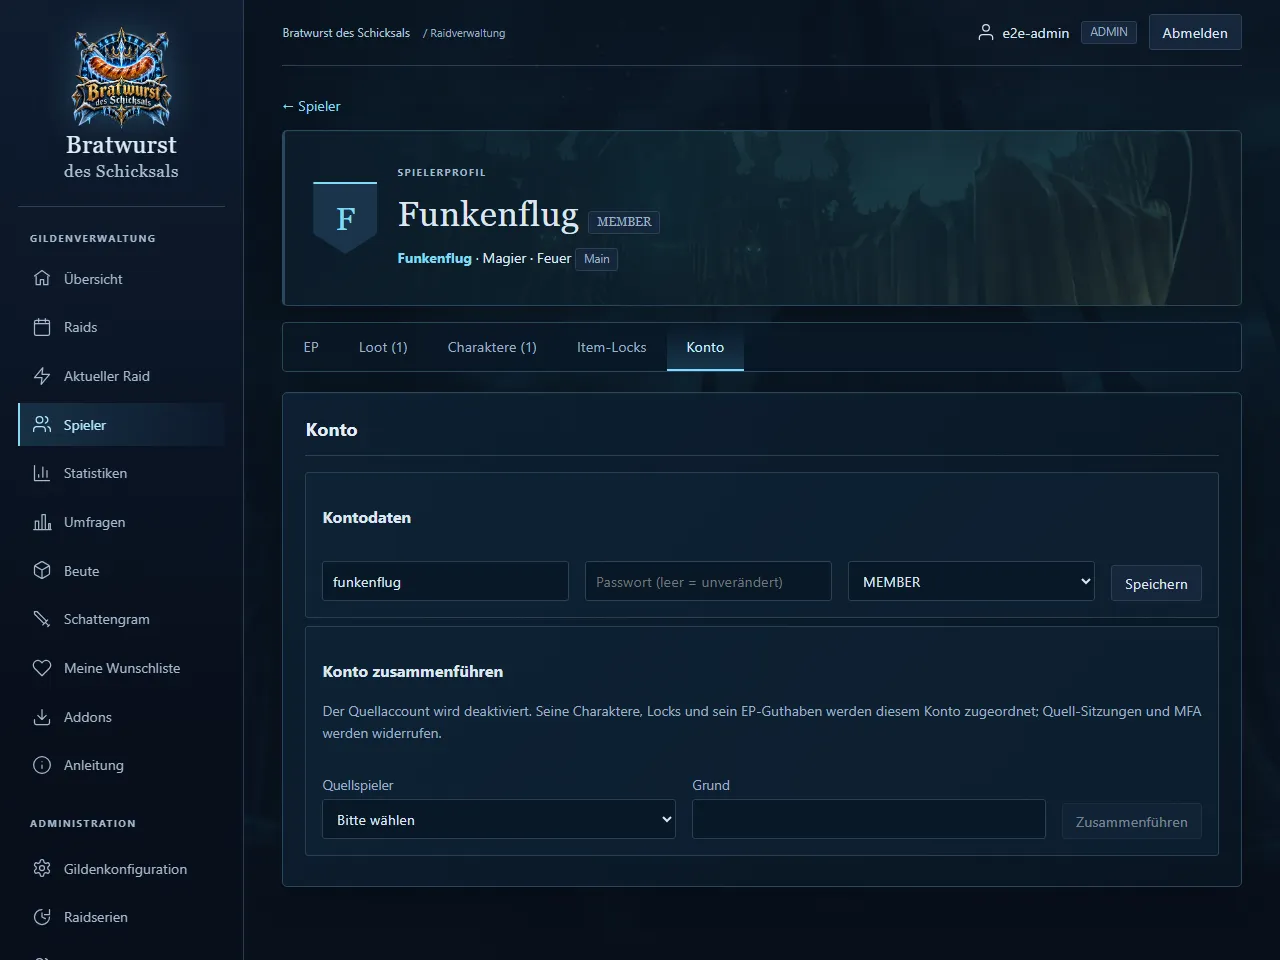
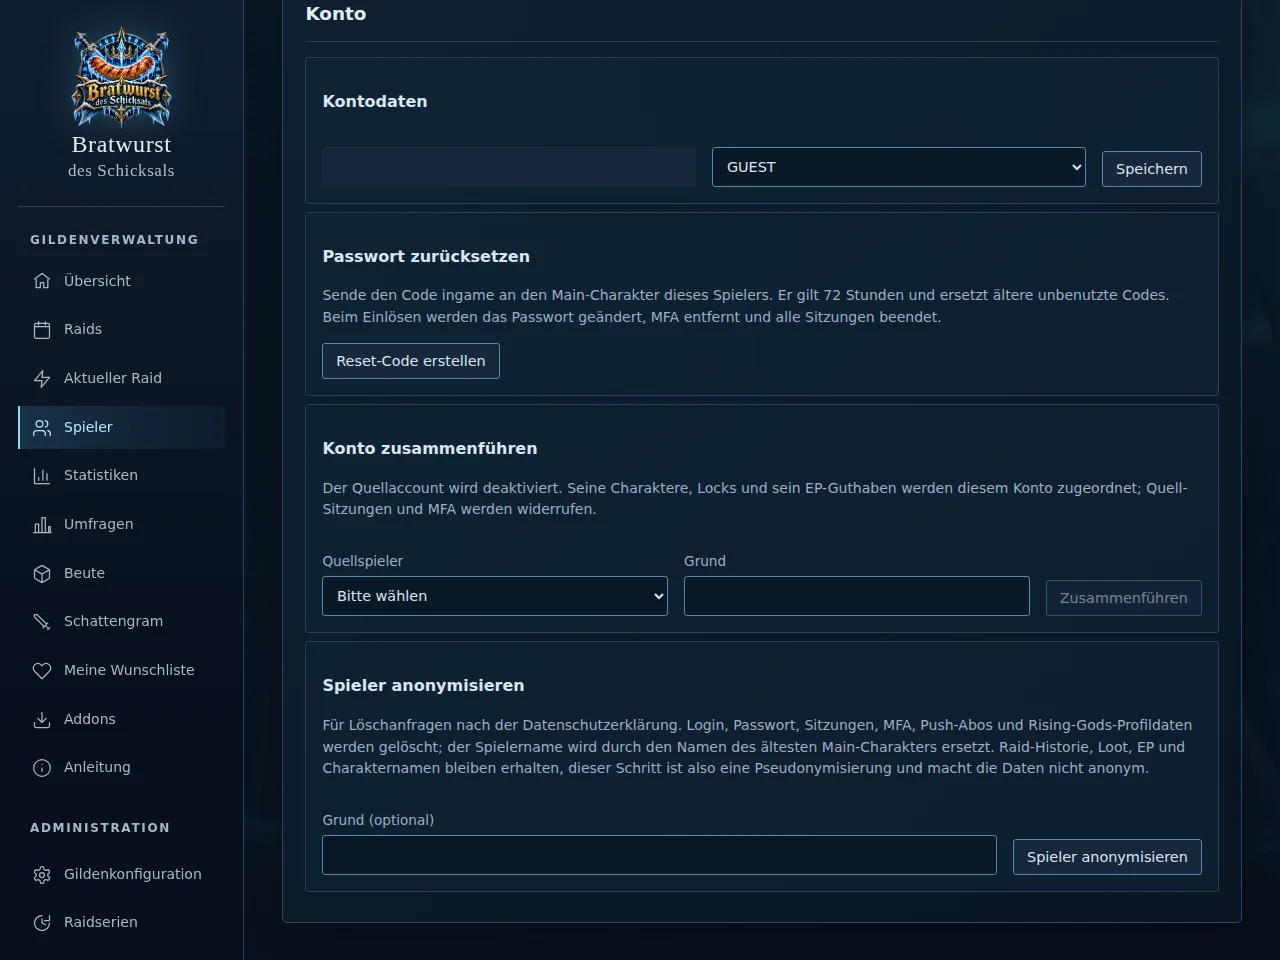
docs: publish reviewed guide screenshots from browser CI

diff --git a/web/src/pages/Guide.tsx b/web/src/pages/Guide.tsx
@@ -258,6 +258,9 @@ export function GuidePage() {
       <p>Im Reiter <strong>Konto</strong> änderst du dein Passwort. Freiwillig kannst du eine Authenticator-App oder einen Sicherheitsschlüssel als zweiten Faktor einrichten. Warum sich das lohnt, steht unter <Link to="/kontosicherheit">Kontosicherheit</Link>.</p>
       <p>Ebenfalls freiwillig: Unter <strong>Benachrichtigungen</strong> schaltest du für dein Gerät Meldungen bei neuen Umfragen, neuen Raids und deinem Platz in einer Aufstellung ein. Der Browser fragt erst nach, wenn du auf den Knopf drückst. Auf iPhone und iPad geht das nur mit RAID auf dem Home-Bildschirm (ab iOS 16.4). Die Meldungen bleiben auf diesem Gerät eingeschaltet, auch wenn du dich später neu anmeldest. Sie enden, wenn du dich abmeldest, wenn sich jemand anderes auf dem Gerät anmeldet und, nach einer Passwortänderung, auf deinen anderen Geräten.</p>
       <Shot name="21-konto" caption="Konto: Passwort und Zwei-Faktor" />
+      <h3>Passwort vergessen</h3>
+      <p>Bitte einen Admin ingame um einen Reset-Code für deinen Main-Charakter. Öffne <Link to="/passwort-zuruecksetzen">Passwort zurücksetzen</Link>, gib den Code und ein neues Passwort ein. Danach meldest du dich neu an und richtest deinen zweiten Faktor wieder ein.</p>
+      <Shot name="23-passwort-zuruecksetzen" caption="Einmaligen Reset-Code mit neuem Passwort einlösen" />
       <h3>Umfragen</h3>
       <p>Unter <Link to="/polls">Umfragen</Link> Antwort wählen und <strong>Abstimmen</strong> klicken.</p>
       <p>Die Raidleitung kann eine Umfrage mit <strong>Bearbeiten</strong> nachträglich ändern: Titel, Beschreibung, Ende, Antworten, und eine geschlossene Umfrage wieder öffnen. Eine umbenannte Antwort behält ihre Stimmen; eine Antwort, für die schon jemand gestimmt hat, lässt sich nicht entfernen.</p>
